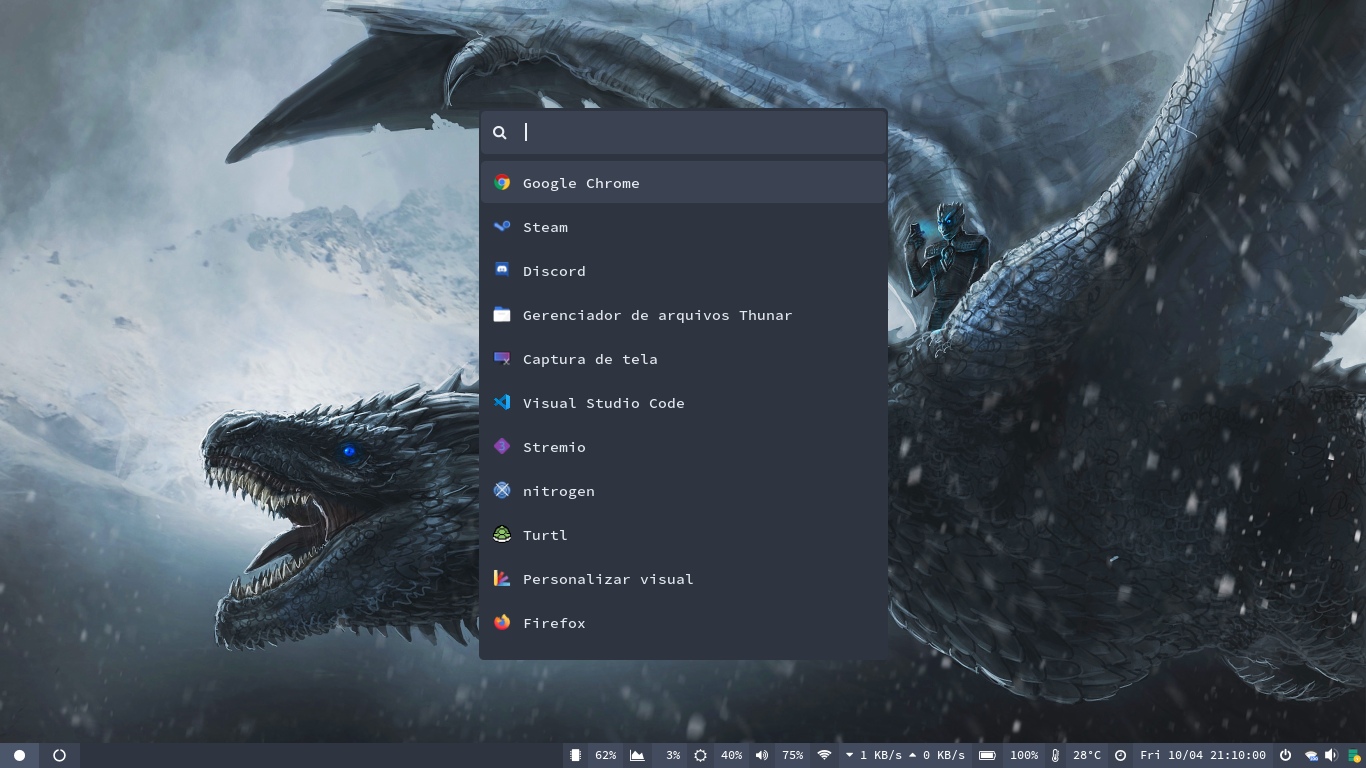
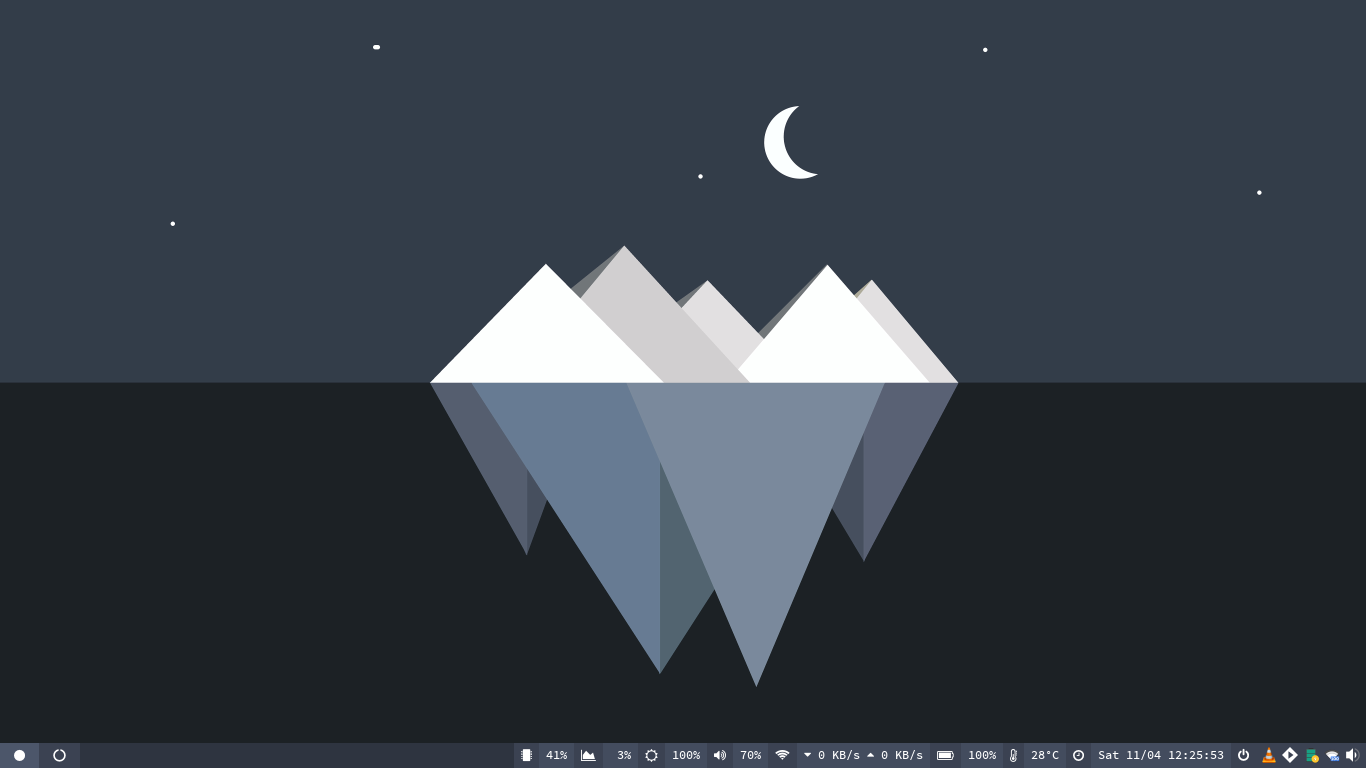
updated

diff --git a/README.md b/README.md
@@ -4,7 +4,7 @@
 - [Nerd Fonts GitHub](https://github.com/ryanoasis/nerd-fonts)
 
 ## Wallpaper
-- [backiee](https://wallpapersite.com/creative-graphics/night-king-dragon-game-of-thrones-concept-art-4k-17911.html)
+- [backiee](https://wallpapersden.com/iceberg-minimalist-wallpaper/)
 
 ## Icon Pack
 - [Flat Remix](https://github.com/daniruiz/Flat-Remix)
